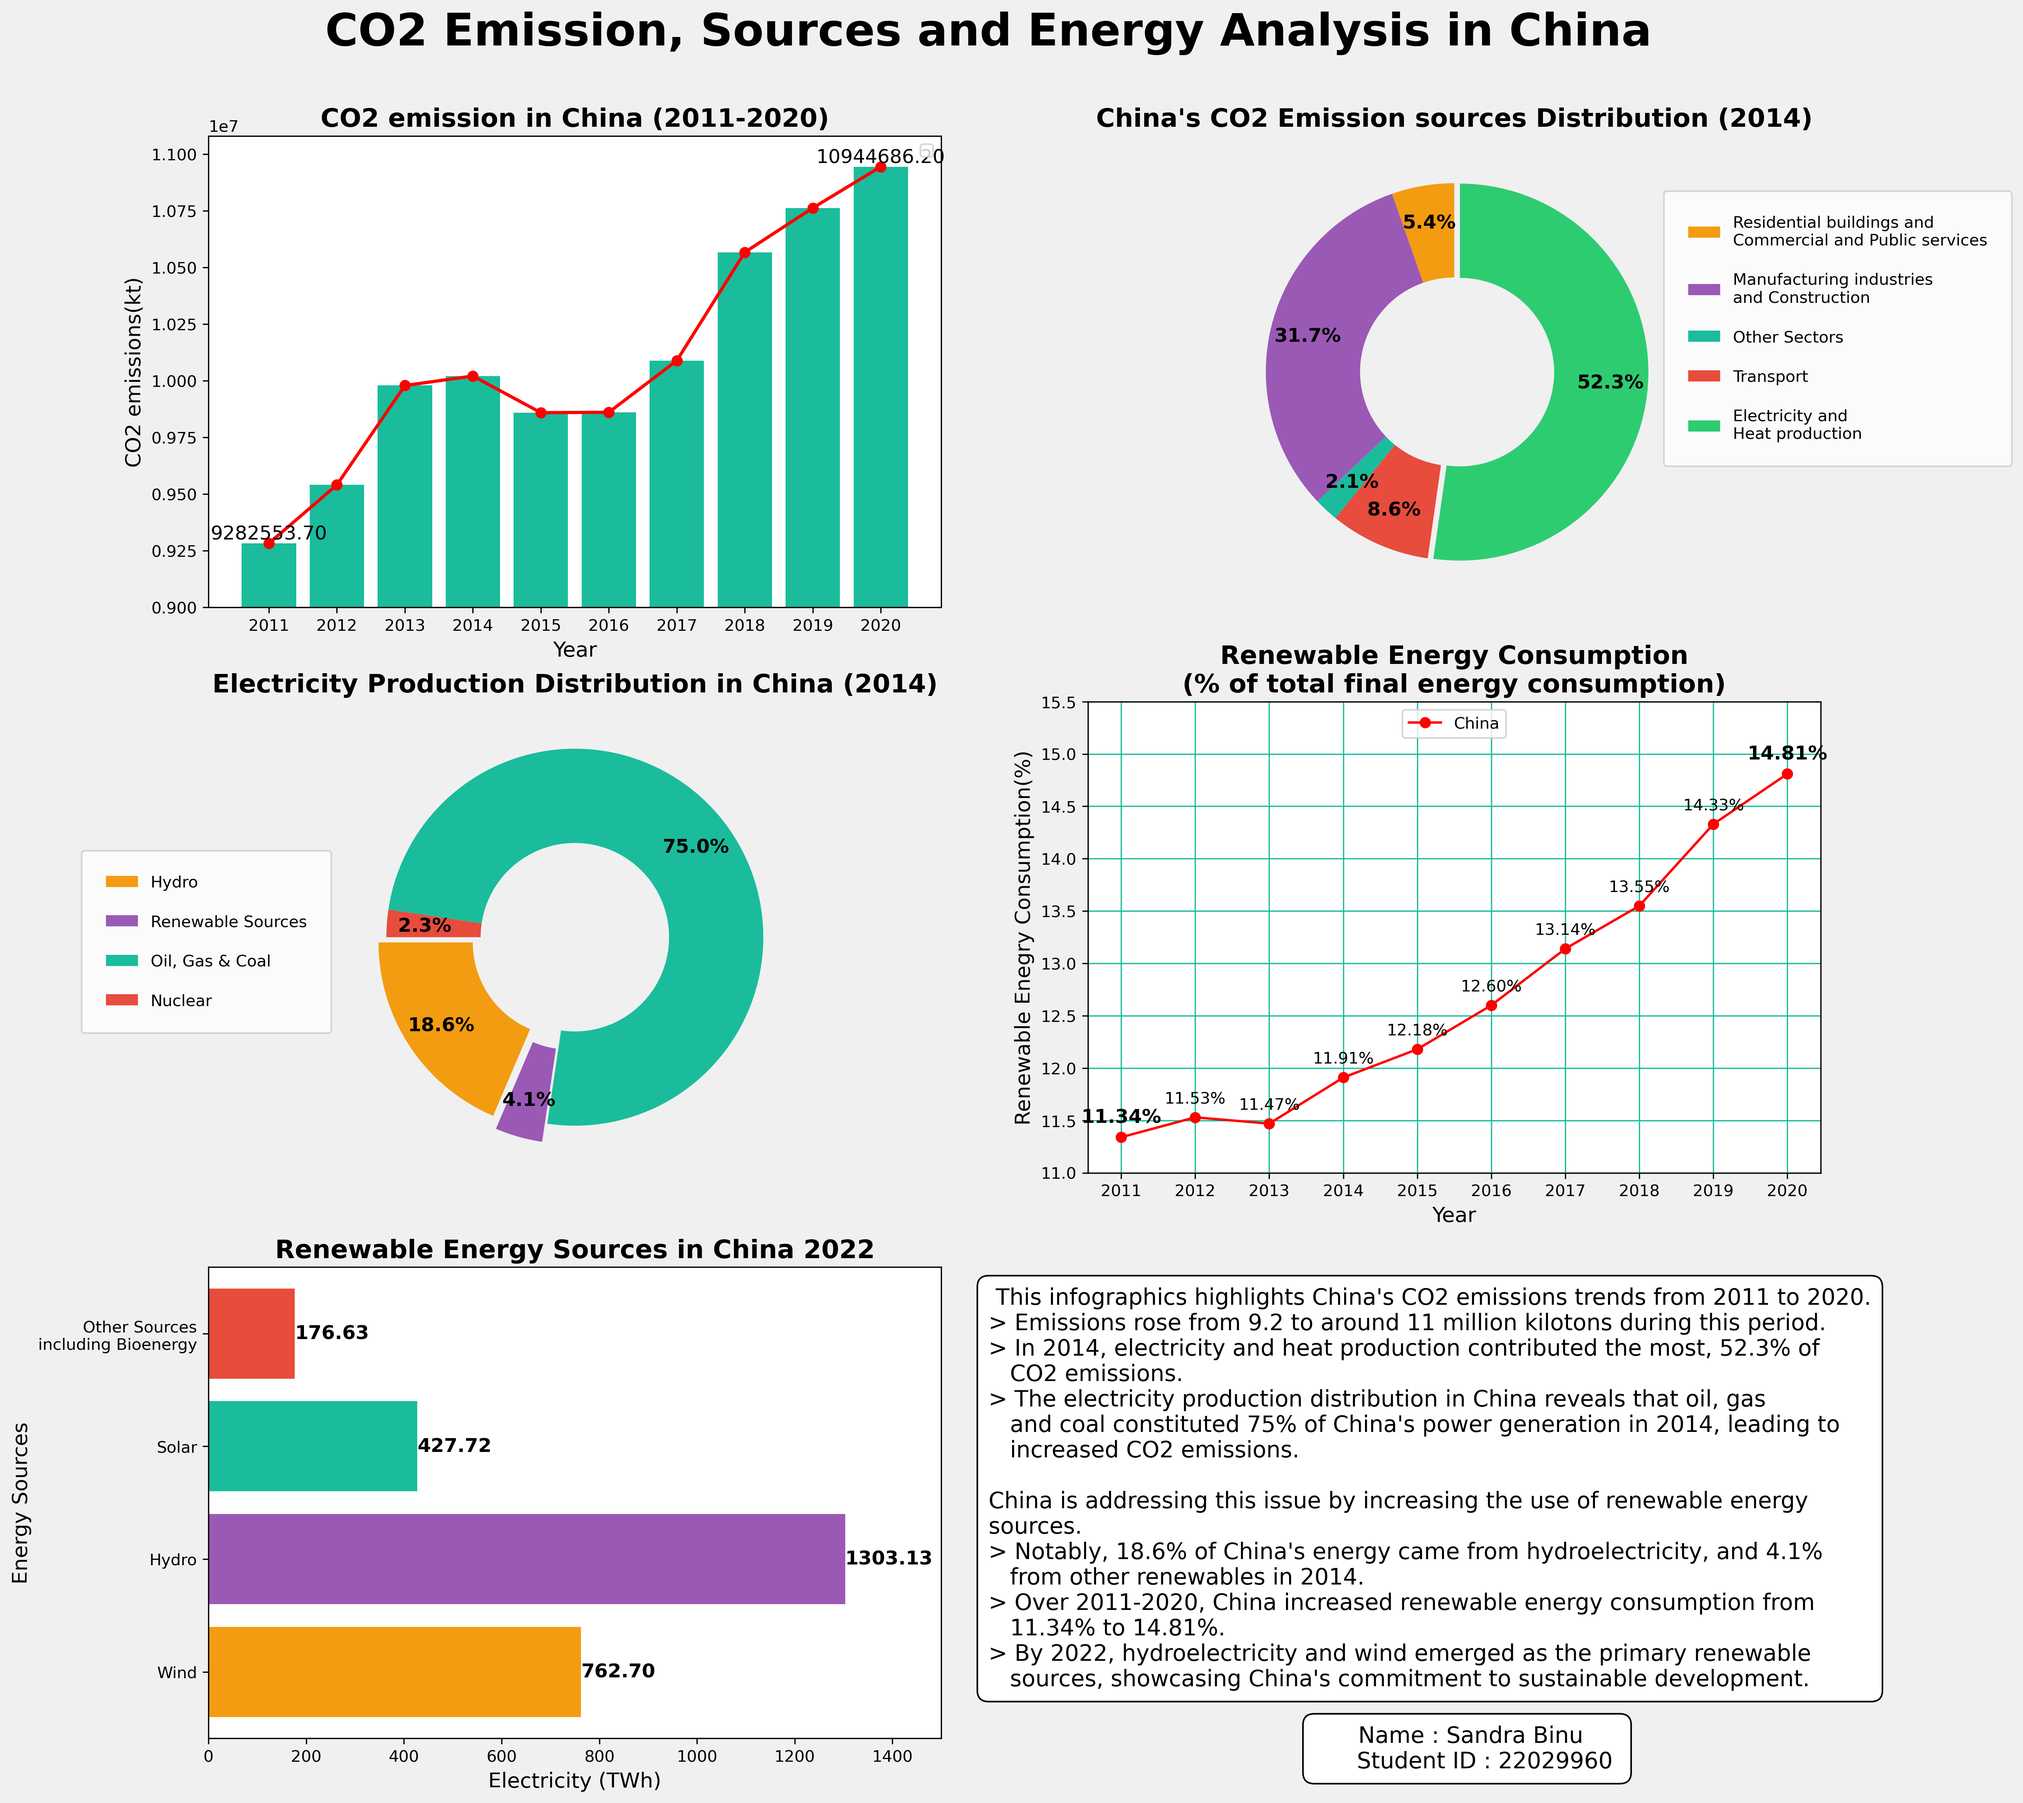
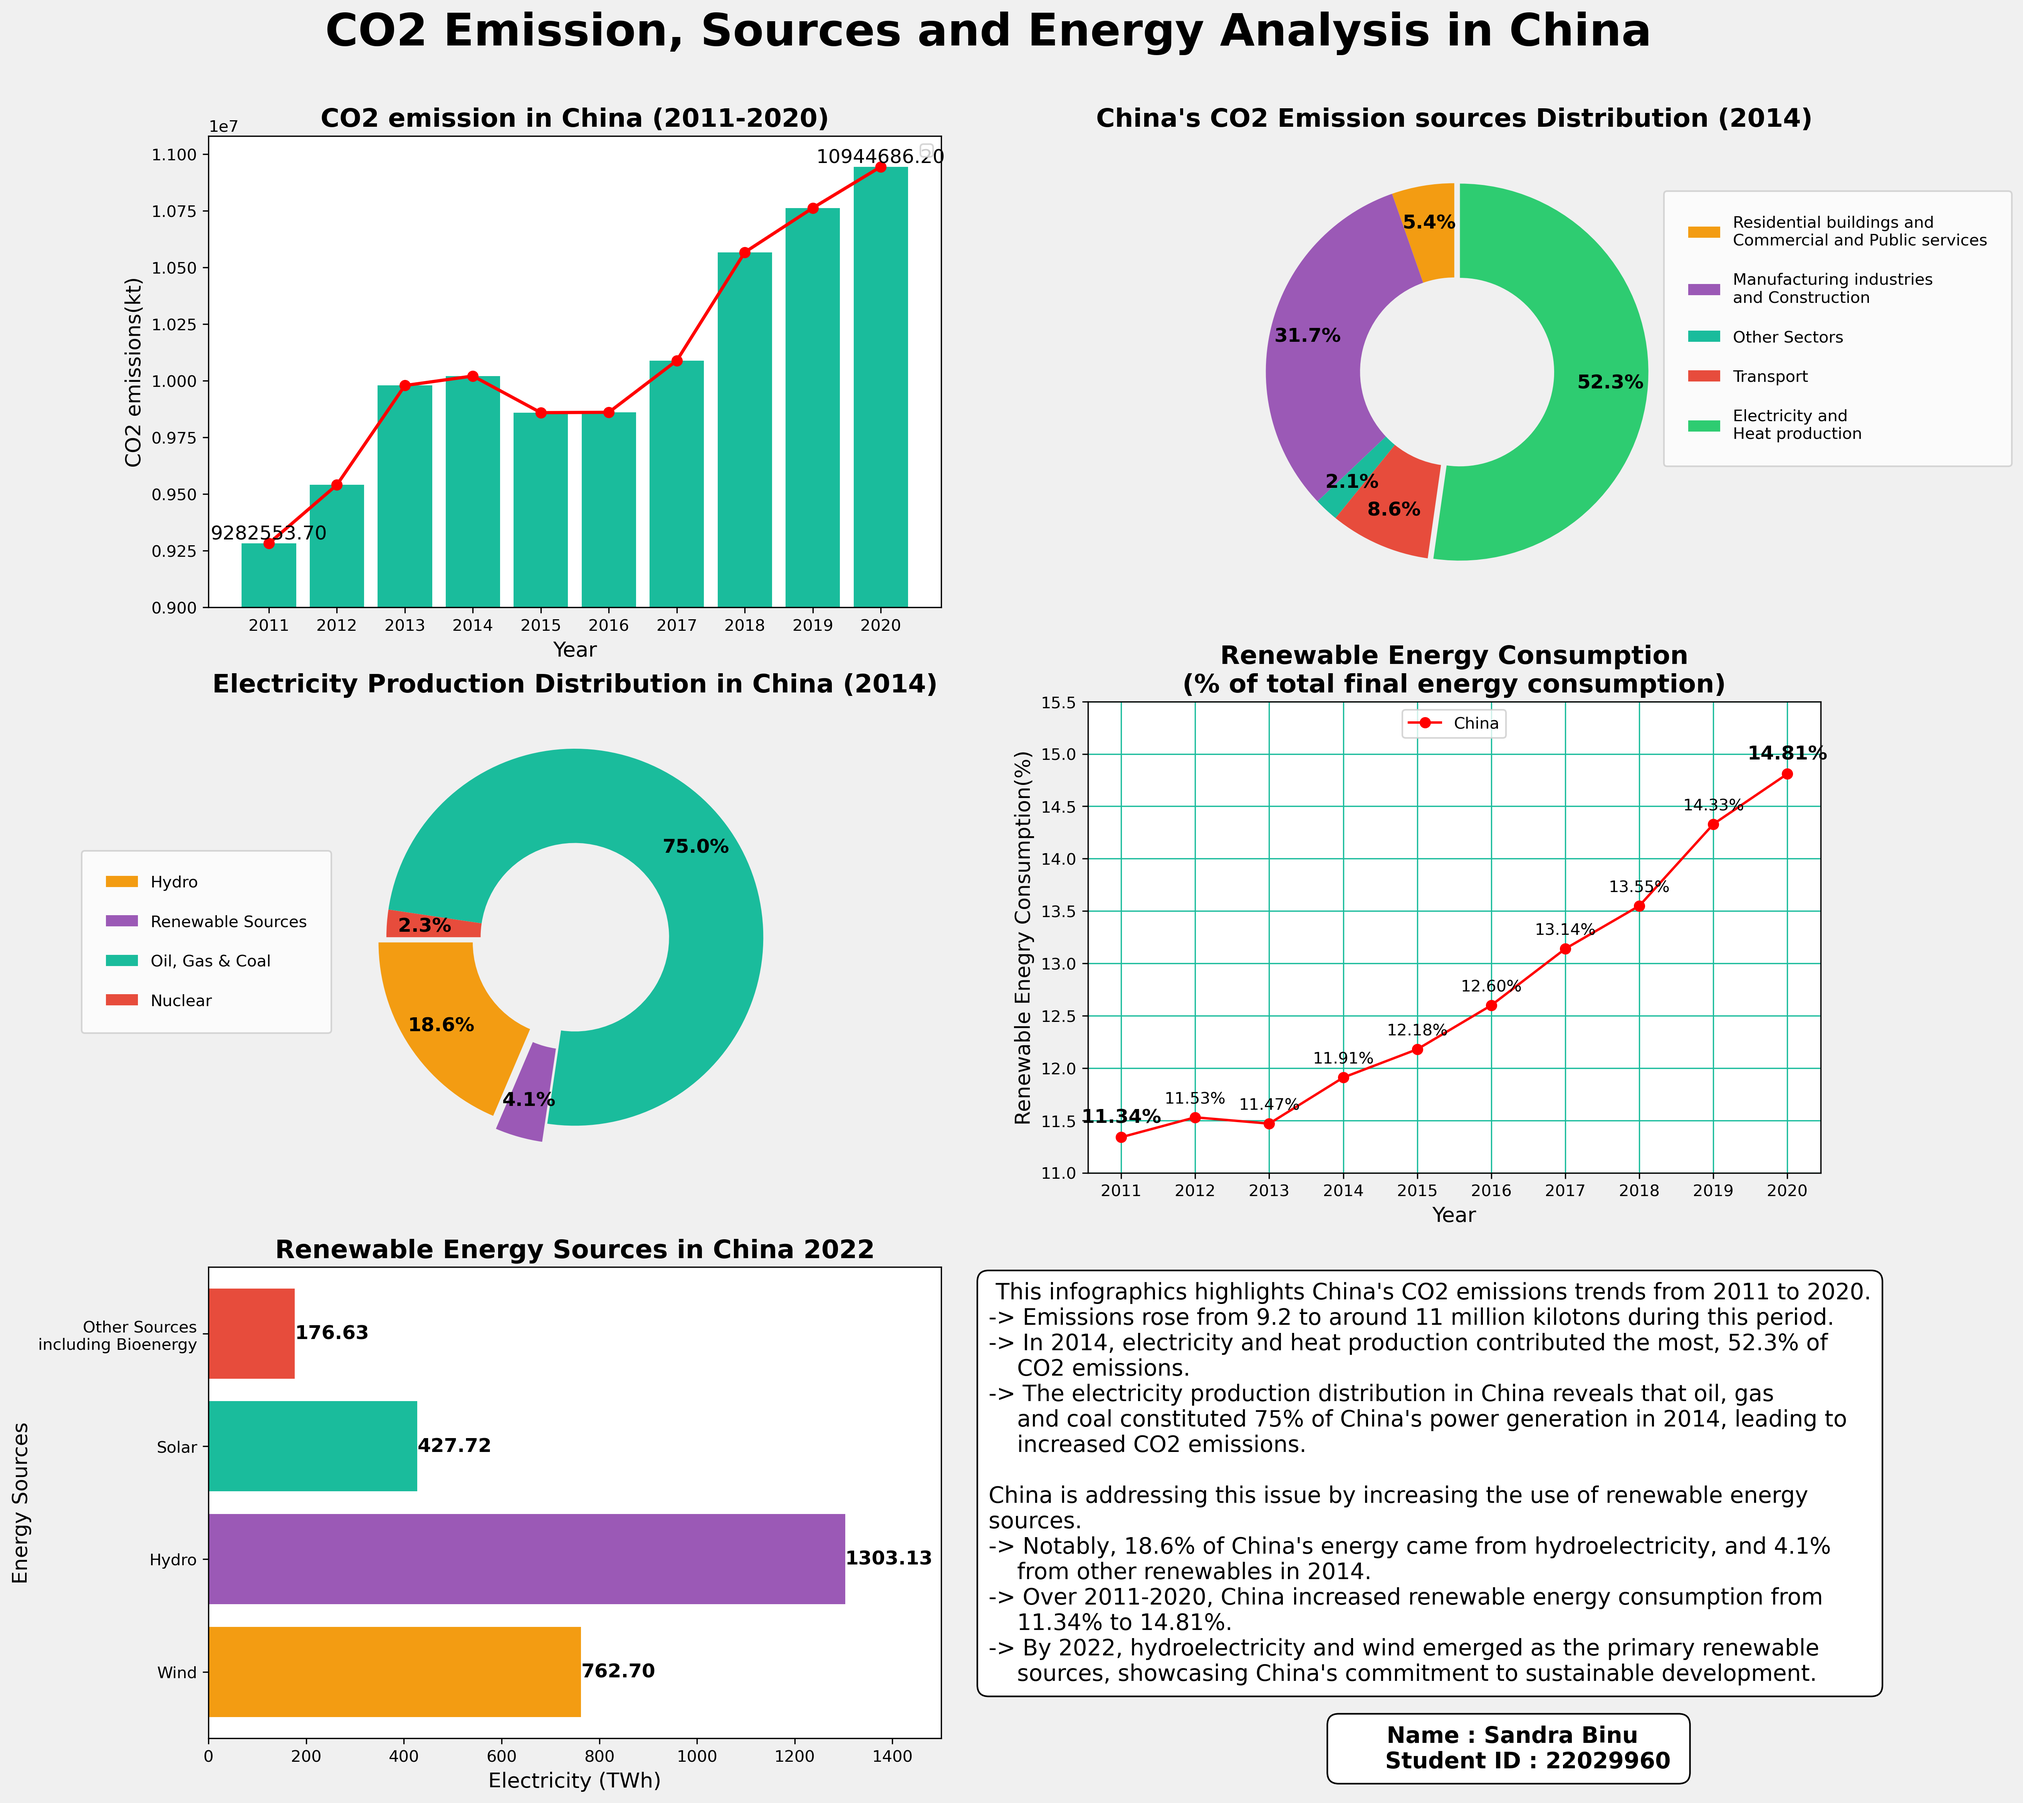
final infographics

Changed region(s): [[0.4997, 0.6865, 0.9057, 0.9985]]

diff --git a/Infographics.py b/Infographics.py
@@ -24,9 +24,7 @@ def readFile(filename,sheetname, yr):
     # dropping the unwanted columns
     columns_to_drop = ['Country Code', 'Indicator Name', 'Indicator Code']
     ref_df = df.drop(columns=columns_to_drop)
-    #ref_df = ref_df.drop(df.columns[-1:])
     # filtering the years
-    #print(ref_df.columns)
     final_df = ref_df.drop(columns=yr)
     # reseting the index
     final_df = final_df.reset_index(drop=True)
@@ -158,11 +156,11 @@ def Infographic(country, text, name):
                  va='center', ha='left', fontsize=12, fontweight='bold')
 
     #writing description and name
-    plt.text(0.5, 0.23, text, ha='left', va='center',
+    plt.text(0.5, 0.2325, text, ha='left', va='center',
              transform=plt.gcf().transFigure, fontsize=14,
              bbox=dict(facecolor='white', edgecolor='black', boxstyle='round,pad=0.5'))
-    plt.text(0.73, 0.105, name, ha='center', va='center',
-             transform=plt.gcf().transFigure, fontsize=14,
+    plt.text(0.75, 0.105, name, ha='center', va='center',
+             transform=plt.gcf().transFigure, fontsize=14, fontweight='bold',
              bbox=dict(facecolor='white', edgecolor='black', boxstyle='round,pad=0.5'))
     #saving the figure
     plt.savefig('22029960.png', dpi=300, bbox_inches='tight')
@@ -196,21 +194,21 @@ renew_cons = readFile(data_file,'renew_cons', yr_co2)
 
 #description on the infographics
 text = """ This infographics highlights China's CO2 emissions trends from 2011 to 2020.
-> Emissions rose from 9.2 to around 11 million kilotons during this period. 
-> In 2014, electricity and heat production contributed the most, 52.3% of 
-   CO2 emissions. 
-> The electricity production distribution in China reveals that oil, gas 
-   and coal constituted 75% of China's power generation in 2014, leading to 
-   increased CO2 emissions.
+-> Emissions rose from 9.2 to around 11 million kilotons during this period. 
+-> In 2014, electricity and heat production contributed the most, 52.3% of 
+    CO2 emissions. 
+-> The electricity production distribution in China reveals that oil, gas 
+    and coal constituted 75% of China's power generation in 2014, leading to 
+    increased CO2 emissions.
 
 China is addressing this issue by increasing the use of renewable energy 
 sources. 
-> Notably, 18.6% of China's energy came from hydroelectricity, and 4.1% 
-   from other renewables in 2014. 
-> Over 2011-2020, China increased renewable energy consumption from 
-   11.34% to 14.81%. 
-> By 2022, hydroelectricity and wind emerged as the primary renewable 
-   sources, showcasing China's commitment to sustainable development."""
+-> Notably, 18.6% of China's energy came from hydroelectricity, and 4.1% 
+    from other renewables in 2014. 
+-> Over 2011-2020, China increased renewable energy consumption from 
+    11.34% to 14.81%. 
+-> By 2022, hydroelectricity and wind emerged as the primary renewable 
+    sources, showcasing China's commitment to sustainable development."""
 
 #name and id
 name = """ Name : Sandra Binu
